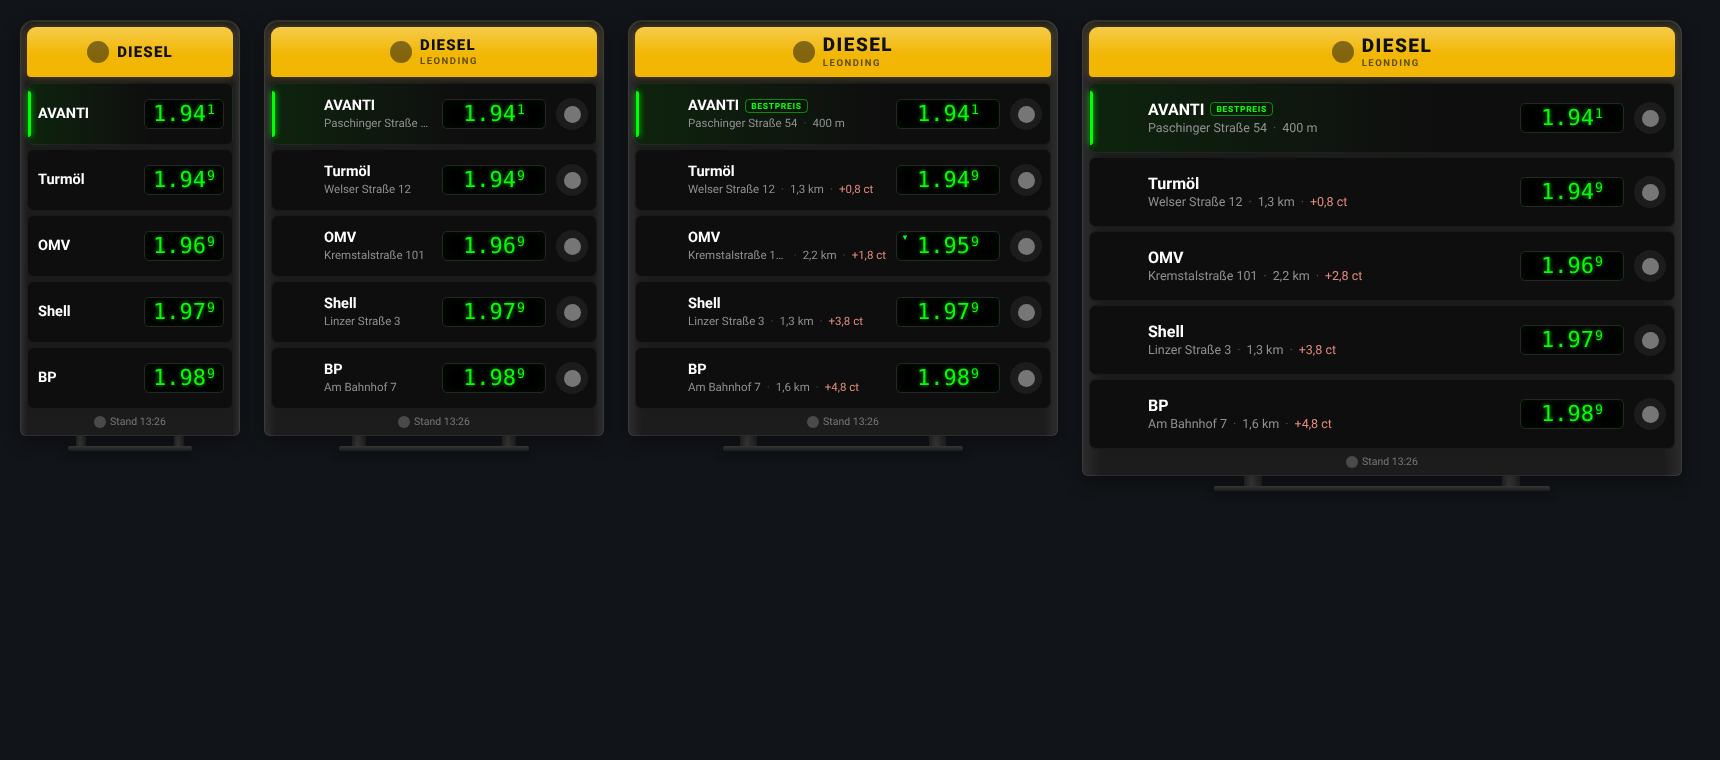
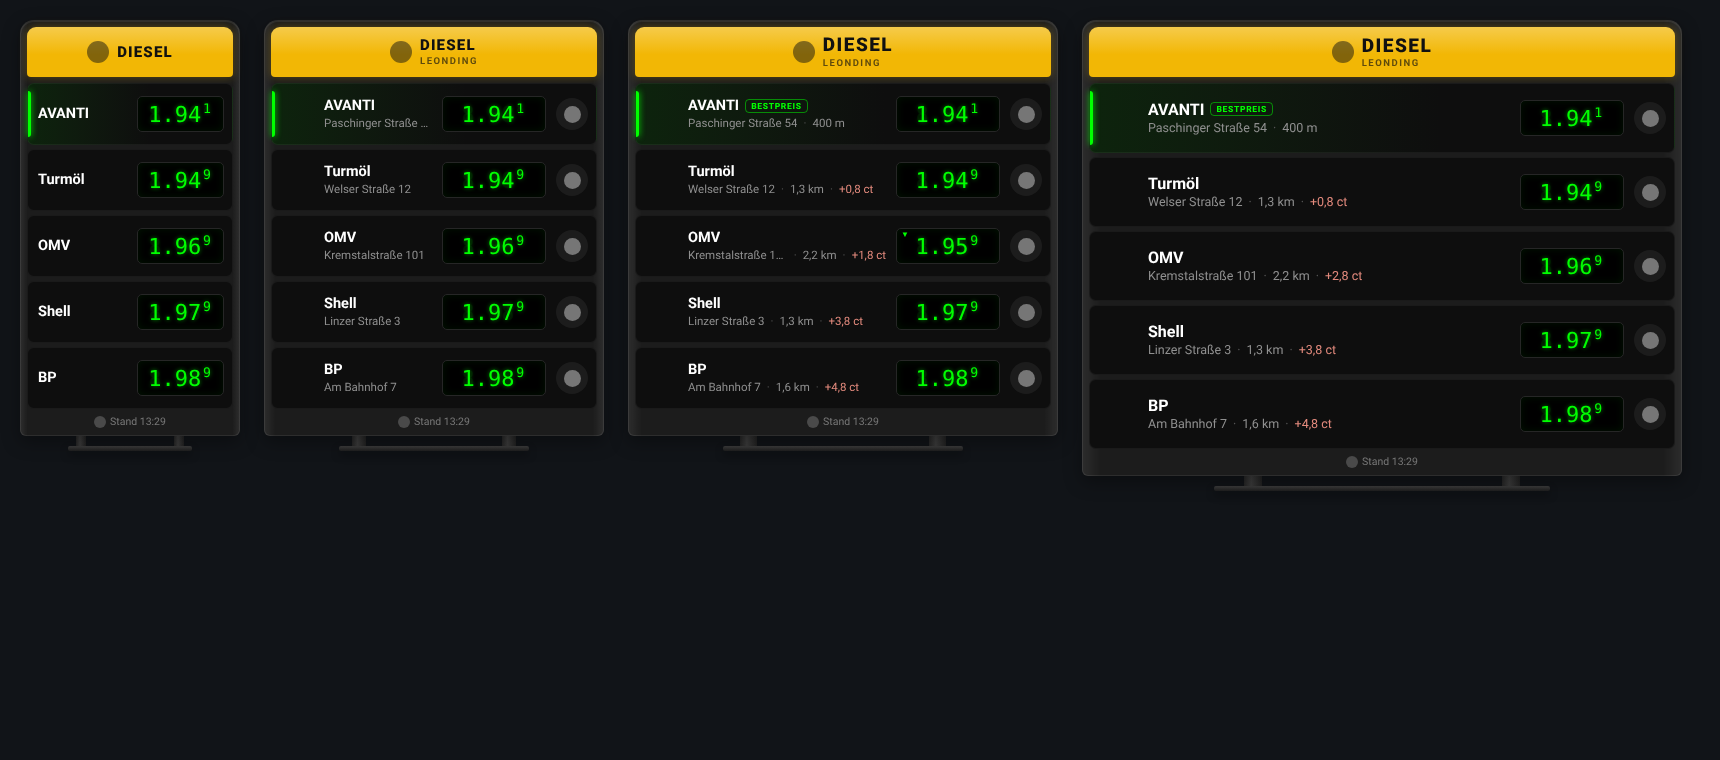
2.2.1: LED-Ziffern bleiben im Rahmen / LED digits stay inside the frame
Claude-Session: https://claude.ai/code/session_01UGasuD1DMqsMdUqYLfjQb4

diff --git a/tankstelle-card.js b/tankstelle-card.js
@@ -9,7 +9,7 @@ const LitElement = Object.getPrototypeOf(
 );
 const { html, css } = LitElement.prototype;
 
-const CARD_VERSION = "2.2.0";
+const CARD_VERSION = "2.2.1";
 // Logos liegen im Repo (Ordner /logos) und kommen über das jsDelivr-CDN.
 // Eigene Quelle möglich über die Option logo_base (z.B. "/local/tankstelle/logos/").
 const LEGACY_LOGO_BASE = "https://www.irmscher.at/homeassistant/logos/";
@@ -635,18 +635,20 @@ class TankstelleCard extends LitElement {
         display: flex; align-items: center; justify-content: center;
         min-width: min(var(--price-min-width), 34cqi);
         box-sizing: border-box;
-        padding: 3px 8px;
+        /* die LED-Schrift zeichnet über ihre eigenen Maße hinaus -> großzügiger Rand */
+        padding: 0.22em 0.55em 0.18em 0.45em;
+        font-size: min(var(--price-font-size), 8cqi);
         border-radius: 5px;
         background: #000;
         border: 1px solid #262626;
         box-shadow: inset 0 0 8px color-mix(in srgb, var(--led) 8%, transparent);
       }
-      .digits { display: inline-flex; align-items: flex-start; }
+      .digits { display: inline-flex; align-items: flex-start; gap: 0.08em; }
       .led {
         display: inline-grid;
         font-family: "TripleDotDigital7", "Repet", ui-monospace, monospace;
         font-size: min(var(--price-font-size), 8cqi);
-        line-height: 1;
+        line-height: 1.15;
         font-variant-numeric: tabular-nums;
       }
       .led > span { grid-area: 1 / 1; white-space: pre; }
@@ -655,7 +657,7 @@ class TankstelleCard extends LitElement {
         color: var(--led);
         text-shadow: 0 0 4px color-mix(in srgb, var(--led) 55%, transparent);
       }
-      .led.sup { font-size: calc(min(var(--price-font-size), 8cqi) * .6); margin-left: 1px; }
+      .led.sup { font-size: calc(min(var(--price-font-size), 8cqi) * .6); line-height: 1.1; }
 
       .trend { position: absolute; top: 2px; left: 4px; font-size: 8px; line-height: 1; }
       .trend.up { color: #ff5a4a; }
@@ -711,7 +713,7 @@ class TankstelleCard extends LitElement {
       }
       @container (max-width: 300px) {
         .panel { grid-template-columns: var(--cols-narrow); }
-        .price { grid-column: 1 / -1; grid-row: 2; justify-self: end; min-width: 0; }
+        .price { grid-column: 1 / -1; grid-row: 2; justify-self: end; min-width: 0; font-size: min(var(--price-font-size), 11cqi); }
         .led { font-size: min(var(--price-font-size), 11cqi); }
         .led.sup { font-size: calc(min(var(--price-font-size), 11cqi) * .6); }
         .meta { display: none; }
